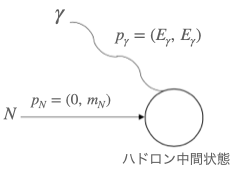
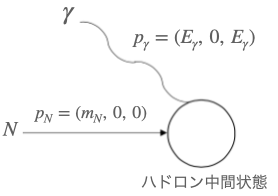
finish

diff --git a/tex/cross_section.tex b/tex/cross_section.tex
@@ -11,16 +11,16 @@
 よって、ハドロン系の質量は$m_W \geq 1.08$ GeVを仮定する。
 
 \subsection{光子のエネルギーの仮定}
-図\ref{fig:sigma1}のように核子と光子の三元運動量を考える。
+図\ref{fig:sigma1}のように核子と光子の四元運動量を考える。
 \begin{figure}[H]
     \centering
     \includegraphics[height=5cm]{img/diagram_momentum.png}
     \caption{ハドロン中間状態と核子と光子の図}
     \label{fig:sigma1}
 \end{figure}
-核子、光子の三元運動量をそれぞれ$p_N$, $p_\gamma$とすると、
+核子、光子の四元運動量をそれぞれ$p_N$, $p_\gamma$とすると、
 \begin{equation}
-    p_N = (0, m_N),\  p_\gamma = (E_\gamma, E_\gamma)
+    p_N = (m_N, 0, 0),\  p_\gamma = (E_\gamma, 0,  E_\gamma)
 \end{equation}
 とかける。
 $m_W$との関係は

diff --git a/tex/angle.tex b/tex/angle.tex
@@ -115,7 +115,7 @@ $E_\pi$について解くと
 \end{equation}
 から見積もる。
 $E_W = 1.15 \ $GeV, $m_p = 0.938 \ $GeV, $m_\pi = 0.138 \ $GeVとして代入すると、
-$E_π = 200.7 \ $MeV , $E_p = 949.0 \ $ MeV , $p_π = p_p = 145.8 \ $ MeVとなる。
+$E_π = 200.7 \ $MeV, $E_p = 949.0 \ $ MeV , $p_π = p_p = 145.8 \ $ MeVとなる。
 
 \subsection{実験室系にブーストされた$\gamma^* N$から生成される$\pi,p$の運動量}
 \begin{figure}[H]
